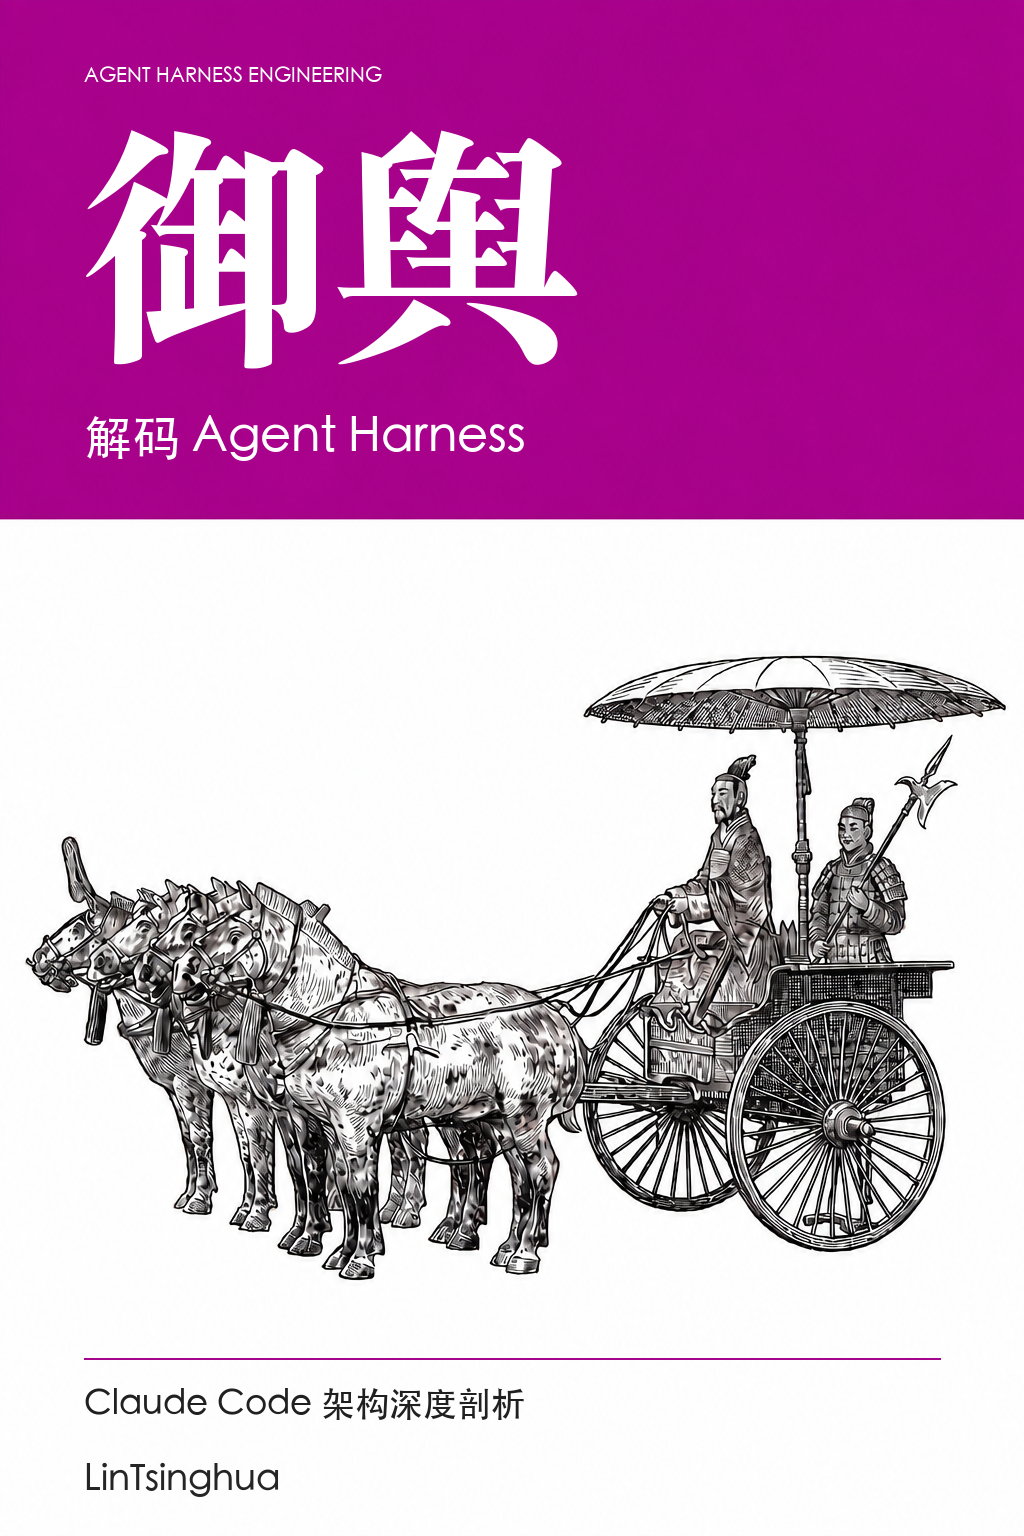
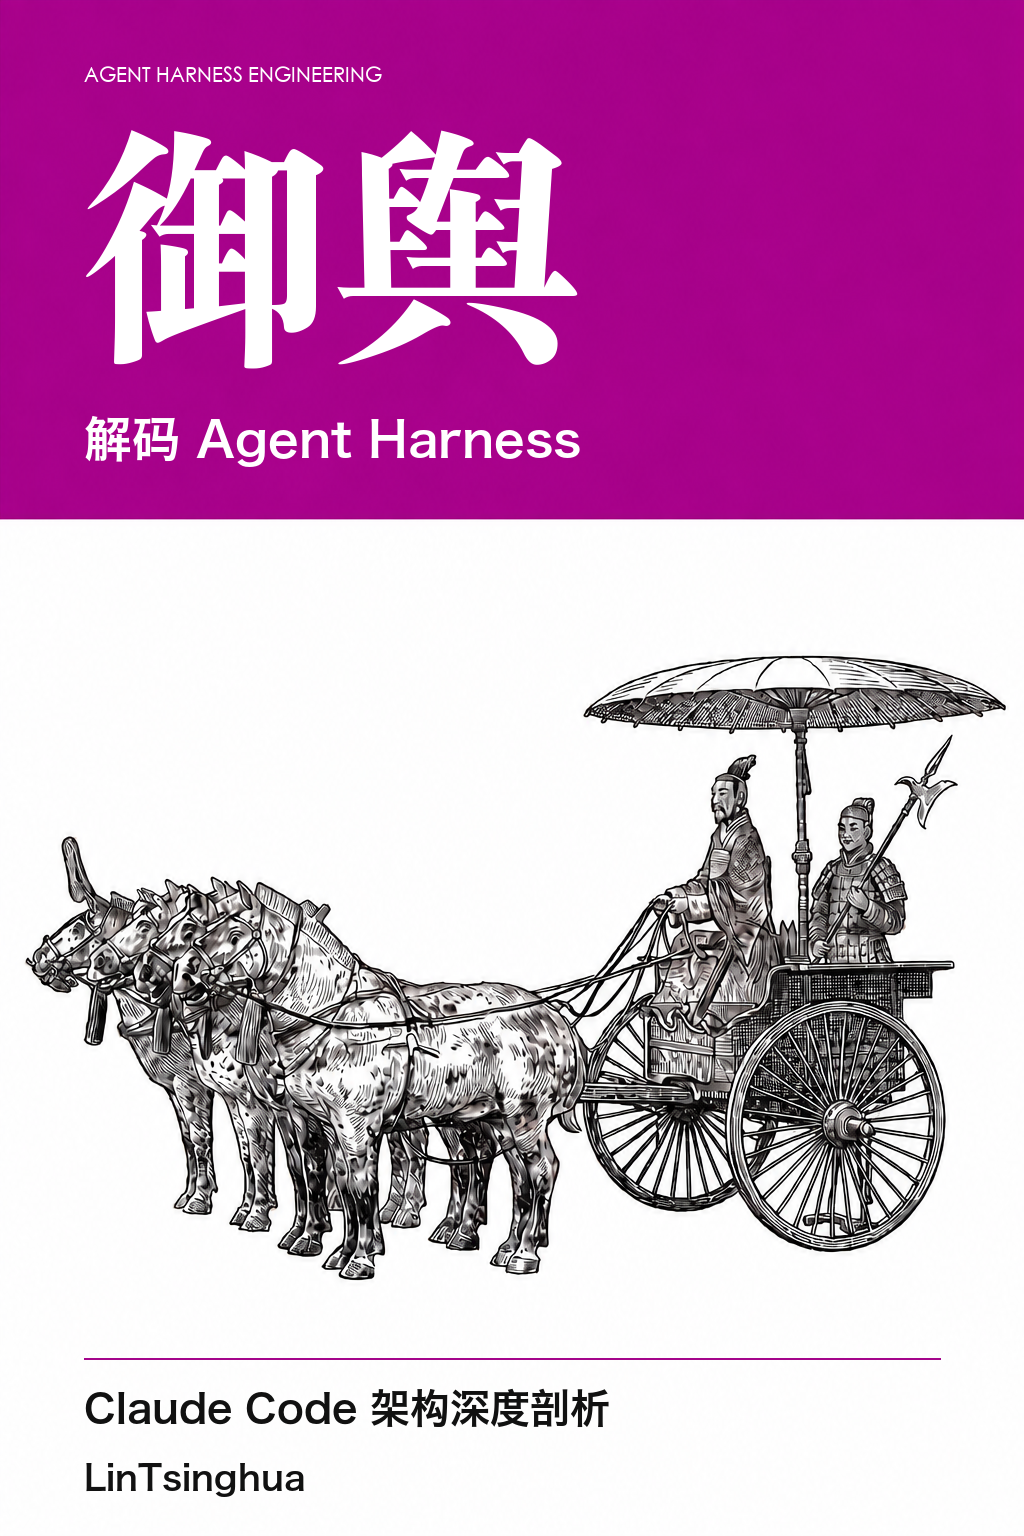
Update

Changed region(s): [[0.0625, 0.9062, 0.5938, 1.0], [0.0625, 0.25, 0.5625, 0.3125]]

diff --git a/scripts/typeset_cover.py b/scripts/typeset_cover.py
@@ -1,8 +1,8 @@
 #!/usr/bin/env python3
 """Typeset the book cover with real simplified Chinese font glyphs.
 
-Requires Pillow and installed CJK fonts. The default fonts are macOS Songti SC
-and Heiti SC. The unlettered artwork is kept separately so every run builds the
+Requires Pillow and installed CJK fonts. The default fonts are macOS Songti SC,
+Heiti SC and Hiragino Sans GB W6. The unlettered artwork is kept separately so every run builds the
 same cover without painting over previous text.
 """
 import argparse
@@ -21,6 +21,8 @@ def main():
     parser.add_argument('--font-index', type=int, default=0)
     parser.add_argument('--sans-font', default='/System/Library/Fonts/STHeiti Medium.ttc')
     parser.add_argument('--sans-font-index', type=int, default=1)
+    parser.add_argument('--footer-font', default='/System/Library/Fonts/Hiragino Sans GB.ttc')
+    parser.add_argument('--footer-font-index', type=int, default=2)
     args = parser.parse_args()
 
     if args.source.resolve() == args.image.resolve():
@@ -36,6 +38,9 @@ def main():
     def sans(size):
         return ImageFont.truetype(args.sans_font, size, index=args.sans_font_index)
 
+    def footer(size):
+        return ImageFont.truetype(args.footer_font, size, index=args.footer_font_index)
+
     def text_at(text, face, left, top, color):
         x0, y0, x1, y1 = draw.textbbox((0, 0), text, font=face)
         if left < 0 or top < 0 or left + x1 - x0 > image.width or top + y1 - y0 > image.height:
@@ -46,10 +51,10 @@ def main():
     # retains its own generous width between these two typographic anchors.
     text_at('AGENT HARNESS ENGINEERING', sans(20), 84, 66, 'white')
     text_at('\u5fa1\u8206', title_font, 78, 130, 'white')  # 御舆 (simplified 舆).
-    text_at('解码 Agent Harness', sans(48), 84, 415, 'white')
+    text_at('解码 Agent Harness', footer(48), 84, 415, 'white')
     draw.line((84, 1358, 940, 1358), fill='#A4058B', width=2)
-    text_at('Claude Code 架构深度剖析', sans(34), 84, 1388, '#202020')
-    text_at('LinTsinghua', sans(36), 84, 1462, '#252525')
+    text_at('Claude Code 架构深度剖析', footer(40), 84, 1388, '#111111')
+    text_at('LinTsinghua', footer(34), 84, 1462, '#111111')
 
     image.save(args.image, optimize=True)
     print(f'Typeset 御舆 using {title_font.getname()}: {args.image}')
